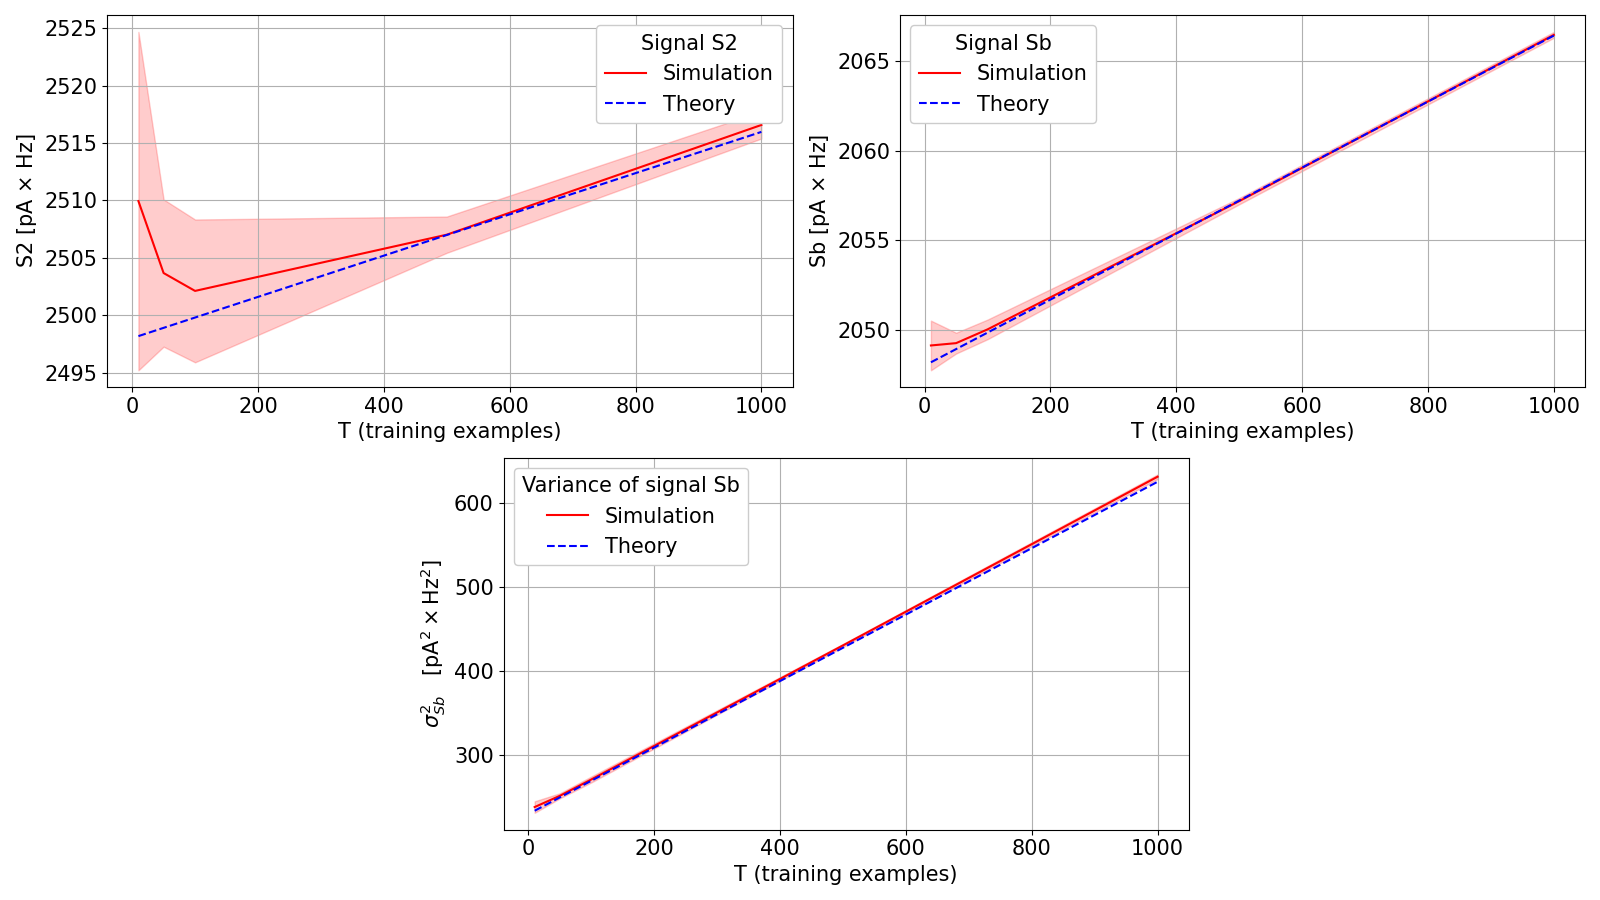
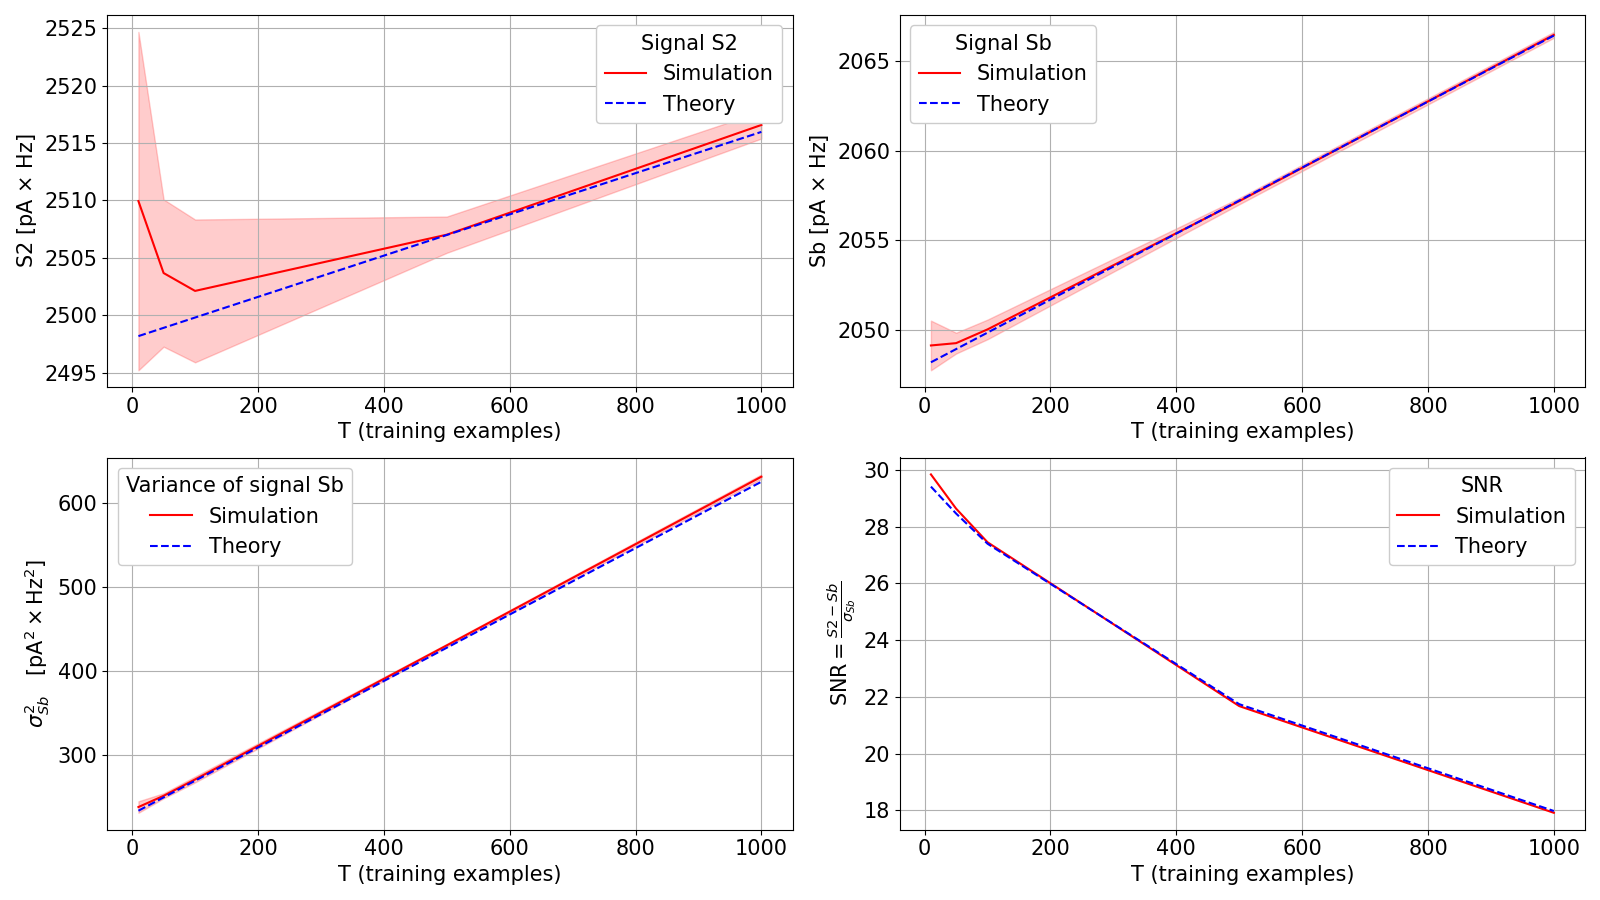
updated plot and added script for preparing data

diff --git a/mem/plot.py b/mem/plot.py
@@ -24,9 +24,9 @@ sigma2S_exp = np.zeros(len(T)); sigma2S_exp_std = np.zeros(len(T))
 for t,dir in enumerate(directories):
     # theoretical values are seed independent
     data = np.loadtxt(dir+"/dum_teor.txt")
-    S2_t[t]=data[2]
-    Sb_t[t]=data[3]
-    sigma2S_t[t]=data[4]
+    S2_t[t] = data[2]
+    Sb_t[t] = data[3]
+    sigma2S_t[t] = data[4]
 
     # now we start a loop over the seeds
     # we average the results over the T tests
@@ -50,6 +50,8 @@ for t,dir in enumerate(directories):
 # free some memory
 del data
 
+SNR_t = (S2_t-Sb_t)/(sigma2S_t**0.5); SNR_exp = (S2_exp-Sb_exp)/(sigma2S_exp**0.5)
+
 # plots
 
 gs = gridspec.GridSpec(2, 4)
@@ -57,7 +59,8 @@ fig = plt.figure(1, figsize = (16,9), tight_layout = True)
 
 ax1 = plt.subplot(gs[0, :2])
 ax2 = plt.subplot(gs[0, 2:])
-ax3 = plt.subplot(gs[1, 1:3])
+ax3 = plt.subplot(gs[1, :2])
+ax4 = plt.subplot(gs[1, 2:])
 
 ax1.fill_between(T, S2_exp-S2_exp_std, S2_exp+S2_exp_std, color="red", alpha=0.2)
 ax1.plot(T, S2_exp, "-", color="red", label="Simulation")
@@ -67,7 +70,6 @@ ax1.set_ylabel(r"S2 [pA $\times$ Hz]", fontsize=tick_fs)
 ax1.tick_params(labelsize=tick_fs)
 ax1.grid()
 ax1.legend(title="Signal S2", fontsize=legend_fs, title_fontsize=legend_fs, framealpha=1.0)
-
 
 ax2.fill_between(T, Sb_exp-Sb_exp_std, Sb_exp+Sb_exp_std, color="red", alpha=0.2)
 ax2.plot(T, Sb_exp, "-", color="red", label="Simulation")
@@ -87,7 +89,13 @@ ax3.tick_params(labelsize=tick_fs)
 ax3.grid()
 ax3.legend(title=r"Variance of signal Sb", fontsize=legend_fs, title_fontsize=legend_fs, framealpha=1.0)
 
-
+ax4.plot(T, SNR_exp, "-", color="red", label="Simulation")
+ax4.plot(T, SNR_t, "--", color="blue", label="Theory")
+ax4.set_xlabel("T (training examples)", fontsize=tick_fs)
+ax4.set_ylabel(r"$\mathrm{SNR}=\frac{S2-Sb}{\sigma _{Sb}}$", fontsize=tick_fs)
+ax4.tick_params(labelsize=tick_fs)
+ax4.grid()
+ax4.legend(title=r"SNR", fontsize=legend_fs, title_fontsize=legend_fs, framealpha=1.0)
 
 
 plt.savefig("memory_capacity.png")
